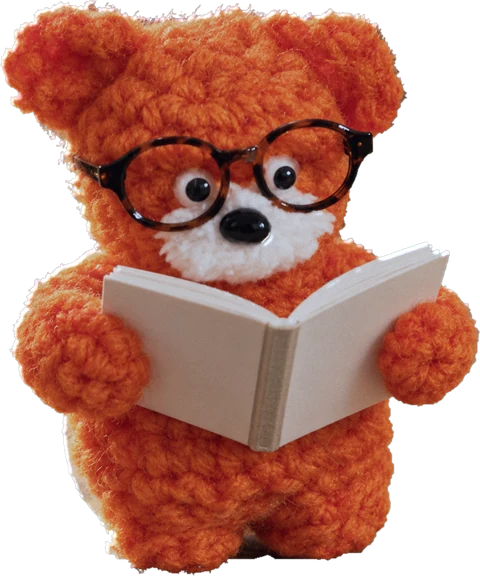
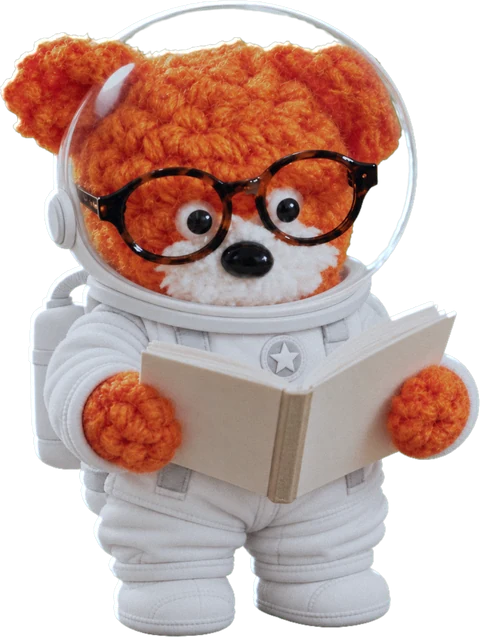
見出しを宇宙のコンセプトから立て直し、ペペに宇宙服を着せる
見出し
- 「読んだ本と、そこで考えたこと」→「わかるまでに、時間がかかっていい」
- 宇宙が固有に持っているのは距離と、光が届くまでの時間。
  それが「読んだ日にわからなくていい」という姿勢（§1）とそのまま重なる。
  装飾として宇宙を使うのではなく、言っていることと絵を一致させた
- meta description と og:description も合わせた

ペペ
- 透明なヘルメットと白い宇宙服。顔・耳の非対称・メガネ・持っている本は変えていない
- ヘルメットのガラス越しに本当に宇宙が透ける（緑を抜いたので）
- 当たるたびに進路を±10〜14度ずらすようにした。完全な弾性反射だけだと
  床と惑星のあいだの縦の通路に挟まって往復しつづける（横の移動が16pxになっていた）。
  直したあとは288pxに広がった

道具
- bump-assets.py を src= と画像にも対応。img/pepe.webp を差し替えても
  ファイル名が同じだとブラウザが古いものを出し続けていた

見出しが2行になって文字帯が伸びたぶん、惑星を下げ、スマホの書影を44pxにした。
両サイズで実測し、文字と装飾の衝突ゼロ・はみ出しゼロを確認。

diff --git a/index.html b/index.html
@@ -4,13 +4,13 @@
 <meta charset="utf-8">
 <meta name="viewport" content="width=device-width, initial-scale=1">
 <title>ソードワンダイアリー</title>
-<meta name="description" content="仕事をする上で、生きていく上で。人間関係やコミュニケーションのこと、毎日の仕事が少し進めやすくなること。そういう本を選んで、週に一冊ずつお届けします。">
+<meta name="description" content="わかるまでに、時間がかかっていい。星の光が届くのに何年もかかるように、本も、読んだ日にわかるとは限りません。仕事と生き方についての本を、一冊ずつ読んで書いています。">
 
 <!-- LINEやSNSに貼ったときのカード表示用。og:image は絶対URLであること -->
 <meta property="og:type" content="website">
 <meta property="og:site_name" content="ソードワンダイアリー">
 <meta property="og:title" content="ソードワンダイアリー">
-<meta property="og:description" content="仕事をする上で、生きていく上で。そういう本を選んで、週に一冊ずつお届けします。">
+<meta property="og:description" content="わかるまでに、時間がかかっていい。星の光が届くのに何年もかかるように、本も、読んだ日にわかるとは限りません。">
 <meta property="og:url" content="https://sword-one.github.io/diary/">
 <meta property="og:image" content="https://sword-one.github.io/diary/img/hero.jpg">
 <meta name="twitter:card" content="summary_large_image">
@@ -23,7 +23,7 @@
 <link rel="preconnect" href="https://fonts.googleapis.com">
 <link rel="preconnect" href="https://fonts.gstatic.com" crossorigin>
 <link href="https://fonts.googleapis.com/css2?family=Noto+Sans+JP:wght@400;500;700&display=swap" rel="stylesheet">
-<link rel="stylesheet" href="style.css?v=202610251048">
+<link rel="stylesheet" href="style.css?v=202610251102">
 
 <script type="application/ld+json">
 {"@context":"https://schema.org","@type":"Blog",
@@ -52,9 +52,9 @@
   <div class="space-in">
     <div class="space-copy" id="copy">
       <div class="space-logo">SWORD ONE DIARY</div>
-      <h1>読んだ本と、そこで考えたこと</h1>
-      <p>仕事をする上で、生きていく上で。人間関係やコミュニケーションのこと、毎日の仕事が少し進めやすくなること。そういう本を選んで、一冊ずつお届けします。</p>
-      <p class="space-tip">惑星はカテゴリです。えらぶと、その本が出てきます</p>
+      <h1><span class="nb">わかるまでに、</span><span class="nb">時間がかかっていい</span></h1>
+      <p>星の光が届くのに何年もかかるように、<span class="nb">本も、読んだ日にわかるとは限りません。</span><br class="br-pc">ずっとあとで、ふいにつながります。</p>
+      <p class="space-tip">惑星はカテゴリです。えらぶと、そこにある本が出てきます</p>
     </div>
 
     <!-- 惑星＝カテゴリ。JSで配置する -->
@@ -63,7 +63,7 @@
     <!-- ペペ。本を持ったまま無重力を漂っている。
          惑星のタップを邪魔しないよう pointer-events は切ってある -->
     <div class="pepe" aria-hidden="true">
-      <span class="pepe-rot"><img src="img/pepe.webp" alt=""></span>
+      <span class="pepe-rot"><img src="img/pepe.webp?v=202610251102" alt=""></span>
     </div>
 
     <!-- 選んだ惑星の本。惑星のまわりを回っている -->
@@ -281,7 +281,7 @@ const itemsOf = id =>
    %で置くと球の大きさによって間隔が変わってしまうので、距離はpxで固定する。
    スマホは1冊だけ大きく出す。小さいのを3つ並べても本に見えない（Codexレビュー） */
 const MOON_W = [[18, 16, -7],[54, 48, 5],[24, 82, -4]];
-const MOON_N = [[16, 56, -6]];
+const MOON_N = [[16, 50, -6]];
 
 function moonsHTML(id) {
   /* 実際にある書影だけ出す。空の枠を混ぜると不具合に見える */
@@ -452,7 +452,7 @@ function drawRing(g, C, R, look, half) {
 /* ───────── 惑星を置く ───────── */
 /* 上部は見出しが入るので、y は 40%% より下だけを使う */
 const P_SLOTS_W = [[14,46,1.10],[34,70,.84],[55,41,.95],[76,66,1.22],[88,34,.80]];
-const P_SLOTS_N = [[28,37,1.12],[73,49,.94],[31,62,1.04],[74,73,.84],[22,82,.66]];
+const P_SLOTS_N = [[28,42,1.12],[73,53,.94],[31,64,1.04],[74,74,.84],[22,83,.66]];
 
 let pEls = [], focused = -1;
 
@@ -664,6 +664,21 @@ function pepeInit() {
   pepeBodies();
 }
 
+/* 当たるたびに進路をわずかに曲げる。
+   完全な弾性反射だけだと、床と惑星のあいだの縦の通路に挟まって
+   まっすぐ往復しつづけることがある（実際に起きた） */
+function pepeKick(deg) {
+  const a = rnd(-deg, deg) * Math.PI / 180;
+  const c = Math.cos(a), s = Math.sin(a);
+  const vx = pp.vx * c - pp.vy * s;
+  const vy = pp.vx * s + pp.vy * c;
+  pp.vx = vx; pp.vy = vy;
+  /* 真横・真縦に寄りすぎたら起こす */
+  const sp = Math.hypot(pp.vx, pp.vy) || 1;
+  if (Math.abs(pp.vx) < sp * .26) pp.vx += (pp.vx >= 0 ? 1 : -1) * sp * .3;
+  if (Math.abs(pp.vy) < sp * .20) pp.vy += (pp.vy >= 0 ? 1 : -1) * sp * .24;
+}
+
 function pepeStep(dt) {
   if (!pp || reduce) return;
   const sr = spEl.getBoundingClientRect();
@@ -675,10 +690,10 @@ function pepeStep(dt) {
   pp.rot += pp.vrot * dt;
 
   /* 壁。当たった縁と逆向きに少し回る */
-  if (pp.x - hw < 6)       { pp.x = 6 + hw;        pp.vx =  Math.abs(pp.vx); pp.vrot += 7; }
-  if (pp.x + hw > W2 - 6)  { pp.x = W2 - 6 - hw;   pp.vx = -Math.abs(pp.vx); pp.vrot -= 7; }
-  if (pp.y - hh < pp.top)  { pp.y = pp.top + hh;   pp.vy =  Math.abs(pp.vy); pp.vrot -= 7; }
-  if (pp.y + hh > H2 - 12) { pp.y = H2 - 12 - hh;  pp.vy = -Math.abs(pp.vy); pp.vrot += 7; }
+  if (pp.x - hw < 6)       { pp.x = 6 + hw;      pp.vx =  Math.abs(pp.vx); pp.vrot += 7; pepeKick(14); }
+  if (pp.x + hw > W2 - 6)  { pp.x = W2 - 6 - hw; pp.vx = -Math.abs(pp.vx); pp.vrot -= 7; pepeKick(14); }
+  if (pp.y - hh < pp.top)  { pp.y = pp.top + hh; pp.vy =  Math.abs(pp.vy); pp.vrot -= 7; pepeKick(14); }
+  if (pp.y + hh > H2 - 12) { pp.y = H2 - 12 - hh;pp.vy = -Math.abs(pp.vy); pp.vrot += 7; pepeKick(14); }
 
   /* 惑星。法線方向に速度を反射し、接線方向の分だけ回転をもらう */
   for (const b of pp.bodies || []) {
@@ -695,6 +710,7 @@ function pepeStep(dt) {
       pp.vy -= 2 * dot * ny;
       pp.vrot += (-pp.vx * ny + pp.vy * nx) * .20;   /* かすめると強く回る */
       pp.vx *= .97; pp.vy *= .97;
+      pepeKick(10);
     }
   }
 

diff --git a/style.css b/style.css
@@ -325,11 +325,13 @@ body.locked{overflow:hidden}
   color:rgba(255,255,255,.5);margin-bottom:20px}
 .space-copy h1{font-size:35px;line-height:1.48;font-weight:700;margin:0;
   letter-spacing:.015em;text-wrap:balance;text-shadow:0 2px 26px rgba(0,0,0,.6)}
-.space-copy p{max-width:530px;margin:17px auto 0;font-size:17px;line-height:1.9;
+.space-copy p{max-width:660px;margin:17px auto 0;font-size:17px;line-height:1.9;
   color:rgba(255,255,255,.76);text-wrap:balance}
 /* 何をする画面かは、下まで読まないと分からないと遅い */
 .space-tip{font-size:15.5px!important;letter-spacing:.03em;
   color:rgba(255,255,255,.6)!important;margin-top:20px!important}
+/* リードはPCだけ2行に割る。スマホは自然に折り返させる */
+.br-pc{display:inline}
 .space-tip::before{content:"";display:inline-block;width:5px;height:5px;
   margin:0 9px 2px 0;border-radius:50%;background:rgba(224,138,27,.9);
   box-shadow:0 0 8px rgba(224,138,27,.8)}
@@ -563,13 +565,14 @@ body.locked{overflow:hidden}
 .sh-go:hover{background:#16284A}
 
 @media(max-width:880px){
-  .space-copy{padding-top:46px}
+  .space-copy{padding-top:34px}
   .space-copy h1{font-size:23px}
+  .br-pc{display:none}
   .space-tip{font-size:12px!important;margin-top:17px!important}
   .space-copy p{font-size:12.5px;line-height:1.9;max-width:340px;margin-top:14px}
   .space-hint{bottom:58px}
   .pl-label{margin-top:14px;max-width:46vw}
-  .mn{width:52px}
+  .mn{width:44px}
   .pl-name{font-size:12.5px}
   .pl-n{font-size:10.5px;margin-top:5px}
   .pl.is-active{transform:translate(-50%,-50%) translate(var(--tx,0),var(--ty,0)) scale(1.35)}

diff --git a/404.html b/404.html
@@ -10,7 +10,7 @@
 <link rel="preconnect" href="https://fonts.googleapis.com">
 <link rel="preconnect" href="https://fonts.gstatic.com" crossorigin>
 <link href="https://fonts.googleapis.com/css2?family=Noto+Sans+JP:wght@400;500;700&display=swap" rel="stylesheet">
-<link rel="stylesheet" href="/diary/style.css?v=202610251048">
+<link rel="stylesheet" href="/diary/style.css?v=202610251102">
 <style>
   body{background:#070C18;color:#fff;display:flex;align-items:center;
     justify-content:center;min-height:100svh;margin:0;padding:24px;text-align:center}

diff --git a/coaching.html b/coaching.html
@@ -24,7 +24,7 @@
 <link rel="preconnect" href="https://fonts.googleapis.com">
 <link rel="preconnect" href="https://fonts.gstatic.com" crossorigin>
 <link href="https://fonts.googleapis.com/css2?family=Noto+Sans+JP:wght@400;500;700&display=swap" rel="stylesheet">
-<link rel="stylesheet" href="style.css?v=202610251048">
+<link rel="stylesheet" href="style.css?v=202610251102">
 
 <script type="application/ld+json">
 {"@context":"https://schema.org","@type":"Article",

diff --git a/power.html b/power.html
@@ -24,7 +24,7 @@
 <link rel="preconnect" href="https://fonts.googleapis.com">
 <link rel="preconnect" href="https://fonts.gstatic.com" crossorigin>
 <link href="https://fonts.googleapis.com/css2?family=Noto+Sans+JP:wght@400;500;700&display=swap" rel="stylesheet">
-<link rel="stylesheet" href="style.css?v=202610251048">
+<link rel="stylesheet" href="style.css?v=202610251102">
 
 <script type="application/ld+json">
 {"@context":"https://schema.org","@type":"Article",

diff --git a/tools/bump-assets.py b/tools/bump-assets.py
@@ -17,8 +17,10 @@ HERE = os.path.dirname(os.path.dirname(os.path.abspath(__file__)))
 JST = timezone(timedelta(hours=9))
 VER = datetime.now(JST).strftime("%Y%m%d%H%M")
 
-# 版番号を付ける対象（自分のサイト内のものだけ）
-TARGETS = ["style.css"]
+# 版番号を付ける対象（自分のサイト内のものだけ）。
+# 中身を差し替えてもファイル名が同じものは、ここに足す。
+# 書影や記事のヒーロー画像は、差し替えるとき名前も変える前提なので入れない。
+TARGETS = ["style.css", "img/pepe.webp"]
 
 n = 0
 for path in sorted(glob.glob(os.path.join(HERE, "*.html"))):
@@ -26,8 +28,8 @@ for path in sorted(glob.glob(os.path.join(HERE, "*.html"))):
     s = io.open(path, encoding="utf-8").read()
     before = s
     for t in TARGETS:
-        # href="style.css" / href="style.css?v=..." / href="/diary/style.css" に対応
-        s = re.sub(r'(href="(?:/diary/)?%s)(\?v=\d+)?"' % re.escape(t),
+        # href= と src= の両方、/diary/ 付きも、既に版番号があるものも拾う
+        s = re.sub(r'((?:href|src)="(?:/diary/)?%s)(\?v=\d+)?"' % re.escape(t),
                    lambda m: m.group(1) + "?v=" + VER + '"', s)
     if s != before:
         io.open(path, "w", encoding="utf-8", newline="").write(s)
